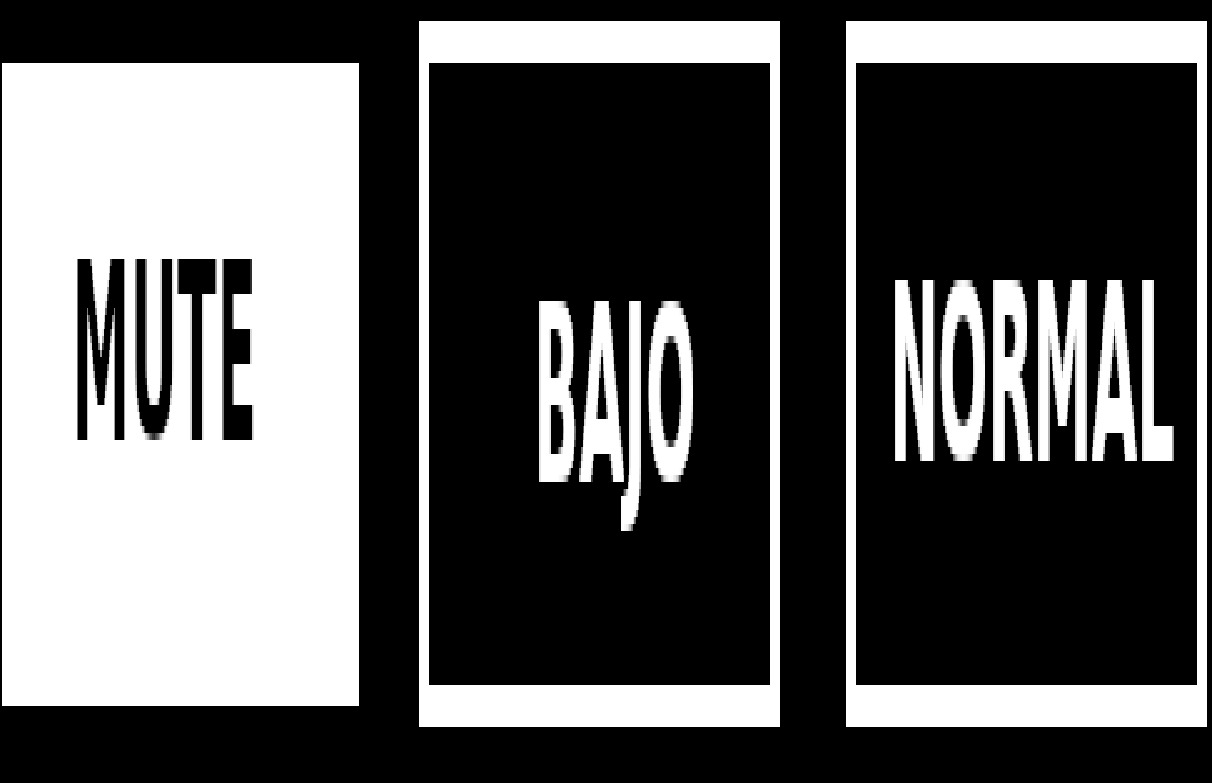
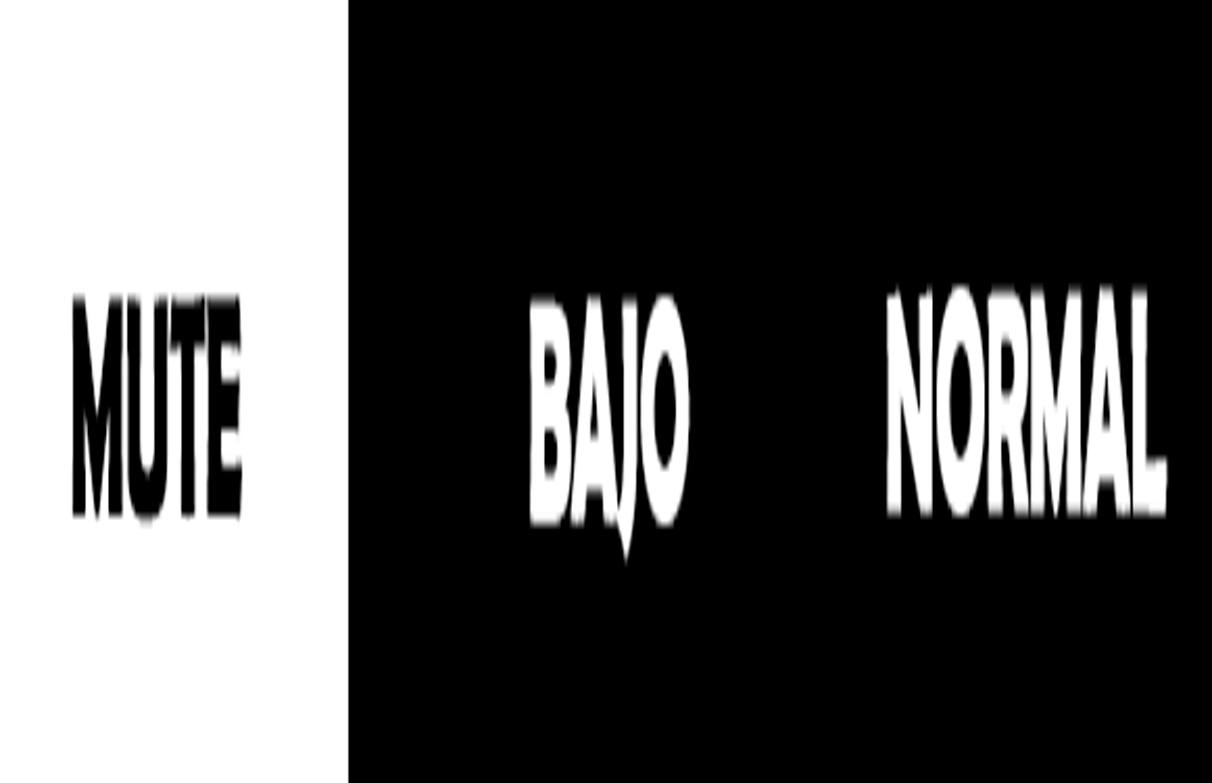
Bug disparos y empezado nuevo menu

diff --git a/MidiMaze/src/version.h b/MidiMaze/src/version.h
@@ -129,7 +129,7 @@ private:
         unsigned char* data;
         string img = "resources/Fotos_midi_maze/";
         if (fast == 0) img = img + "original.jpg";
-        else if (fast == 1) img = img + "nuevo.jpg";
+        else if (fast == 1) img = img + "moderno.jpg";
 
         data = stbi_load(img.c_str(), &width, &height, &nrChannels, 0);
         if (data)

diff --git a/MidiMaze/main.cpp b/MidiMaze/main.cpp
@@ -318,7 +318,7 @@ int main()
         float tamY = 0;
         float iniX = 0;
         float iniY = 0;
-				 
+        newBullet = false;  //Bug de que empieza disparando
         while (!glfwWindowShouldClose(window))
         {
 			if (versionModernaGraficos) {
